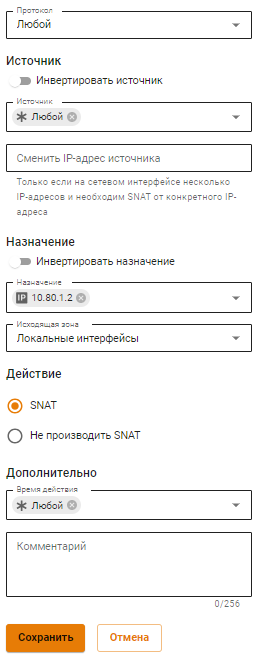
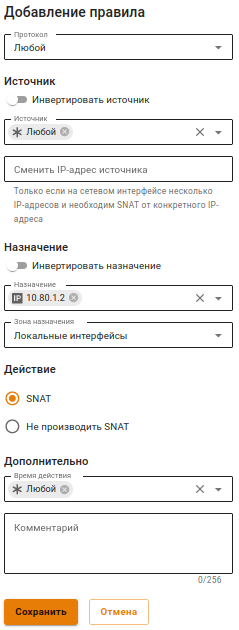
ICS-36361 УТМ. Баги документации

Changed region(s): [[0.0, 0.0, 0.9958, 0.9048], [0.0, 0.9349, 0.6444, 0.9952], [0.8201, 0.9048, 0.9372, 0.9349]]

diff --git a/recipes/popular-recipes/choosing-hardware-platform.md b/recipes/popular-recipes/choosing-hardware-platform.md
@@ -12,7 +12,7 @@ Ideco NGFW представляет собой операционную сист
 * Не рекомендуем использовать встроенные сетевые карты, особенно интерфейсы на бюджетных/редких/устаревших/noname чипсетах. NGFW работает с сетью, и зачастую бюджетные сетевые адаптеры для десктопов не справляются с задачами шлюза. Лидирует по качеству тут также  Intel;
 * Не рекомендуем использовать RAID-контроллеры в работе сетевого шлюза. Встроенные в материнские платы программные и полуаппаратные RAID-контроллеры официально не поддерживаются нашим продуктом;
 * Материнские платы могут использоваться как серверные, так и десктопные. Желательно использование процессоров Intel;
-* Бюджетные, энергоэкономичные платформы для десктопов, полутонких клиентов на базе Intel Atom не подходят для работы Ideco NGFW и не соответствуют минимальным [системным требованиям](/installation/installation-process.md) продукта.
+* Бюджетные, энергоэкономичные платформы для десктопов, полутонких клиентов на базе Intel Atom не подходят для работы Ideco NGFW и не соответствуют минимальным [системным требованиям](/general/data-update-source-ideco-utm.md) продукта.
 
 ## Подбор мощности аппаратной платформы
 

diff --git a/settings/users/ideco-client/ideco-client-windows.md b/settings/users/ideco-client/ideco-client-windows.md
@@ -15,7 +15,7 @@
 Если требуется заранее установить адрес подключения, в командной строке перейдите в директорию с файлом `cd [путь до файла]` и вызовите файл с ключом `IdecoAgent.msi utm_address=имя_домена`.
 
 {% hint style="info" %}
-Чтобы исключить взаимодействие пользователя с приложением, нужно установить Client на доменный компьютер с ключом `IdecoAgent.msi utm_address=имя_домена`. В этом случае авторизация для пользователей этого компьютера будет происходить через их SSO-профиль по умолчанию в "бесшумном" режиме автоподключения.
+Чтобы исключить взаимодействие пользователя с приложением, нужно установить Client на доменный компьютер с ключом `IdecoAgent.msi utm_address=имя_домена`. В этом случае авторизация для пользователей этого компьютера будет происходить через их SSO-профиль по умолчанию в "тихом" режиме автоподключения.
 {% endhint %}
 
 ## Настройка профиля для первого запуска

diff --git a/recipes/popular-recipes/access-to-remote-networks.md b/recipes/popular-recipes/access-to-remote-networks.md
@@ -137,7 +137,7 @@
 Заполните поля:
 
 * Адрес назначения - `10.80.1.2`;
-* Исходящая зона - Локальные интерфейсы;
+* Зона назначения - Локальные интерфейсы;
   
 В этом случае трафик хоста `10.80.1.5` на внешний адрес сайта `188.114.8.8` будет перенаправлен на адрес сервера `10.80.1.2` правилом DNAT. При этом созданное правило SNAT подменит адрес источника `10.80.1.5` на адрес NGFW, пакет приобретает вид: `scr 10.80.1.1 dst 10.80.1.2`. За счет этого ответ от сервера также пройдет через NGFW, поскольку пакет будет иметь вид: `scr 10.80.1.2 dst 10.80.1.1`.
 

diff --git a/general/license.md b/general/license.md
@@ -27,8 +27,8 @@
 ### SMB - бесплатная лицензия, действует 5 лет
 
 * [x] Авторизация до 22 пользователей
-* [X] Интеграция с **Active Directory** на 2 года
-* [x] **IPS**, **Контроль приложений**, **Предотвращение вторжений** и расширенный **Контент-фильтр** доступны 2 года с даты создания лицензии
+* [x] Интеграция с **Active Directory** на 2 года
+* [x] **Контроль приложений**, **Предотвращение вторжений** и расширенный **Контент-фильтр** доступны 2 года с даты создания лицензии
 * [x] Антивирус ClamAV
 * [x] Авторизация через Ideco Client
   
